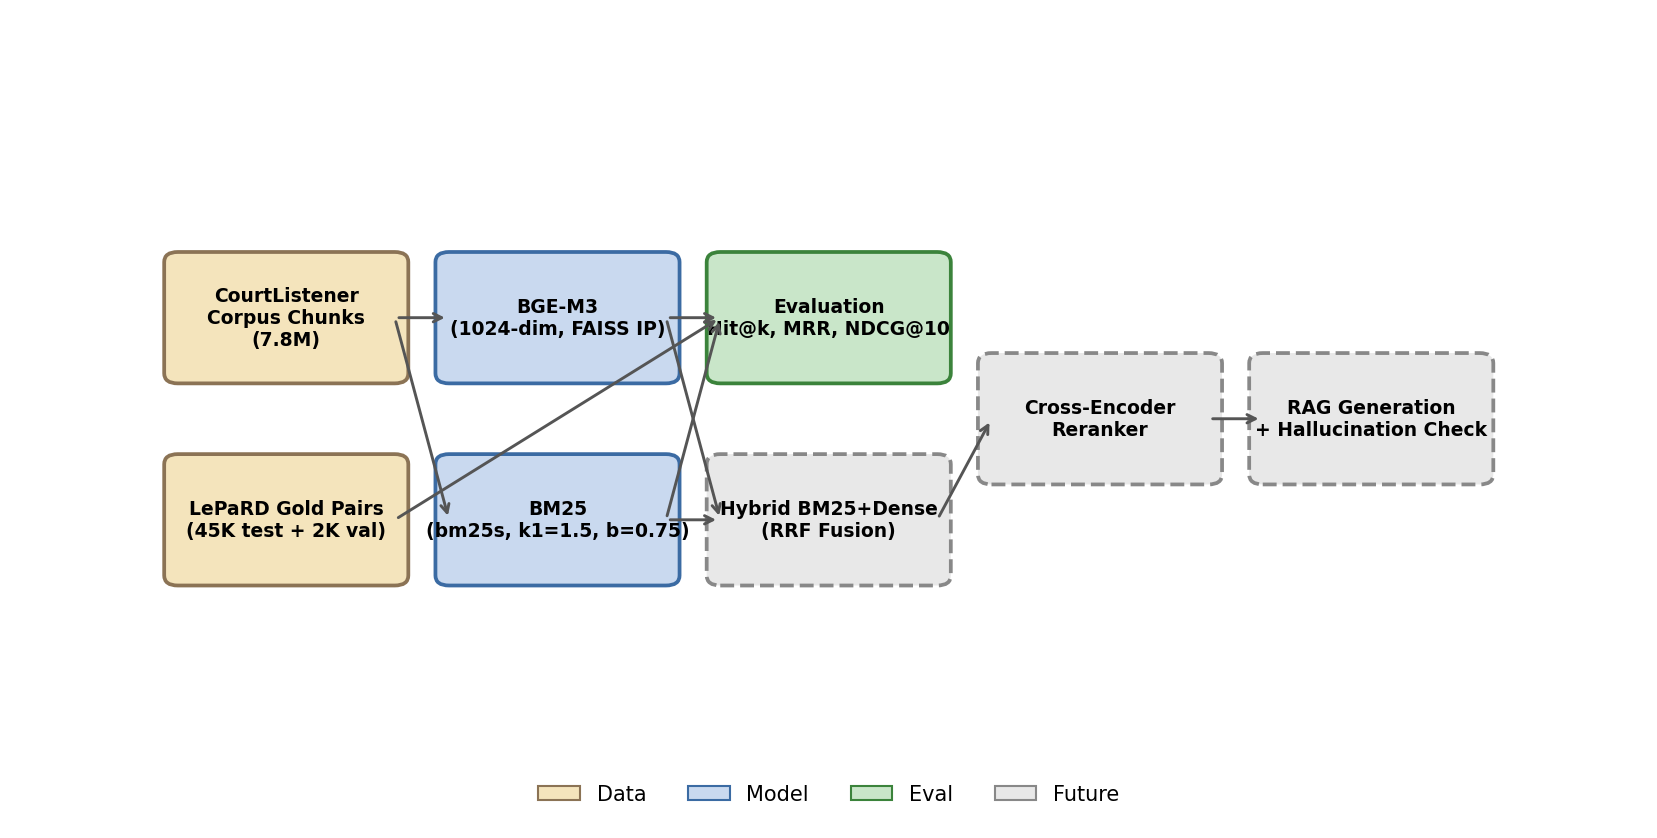
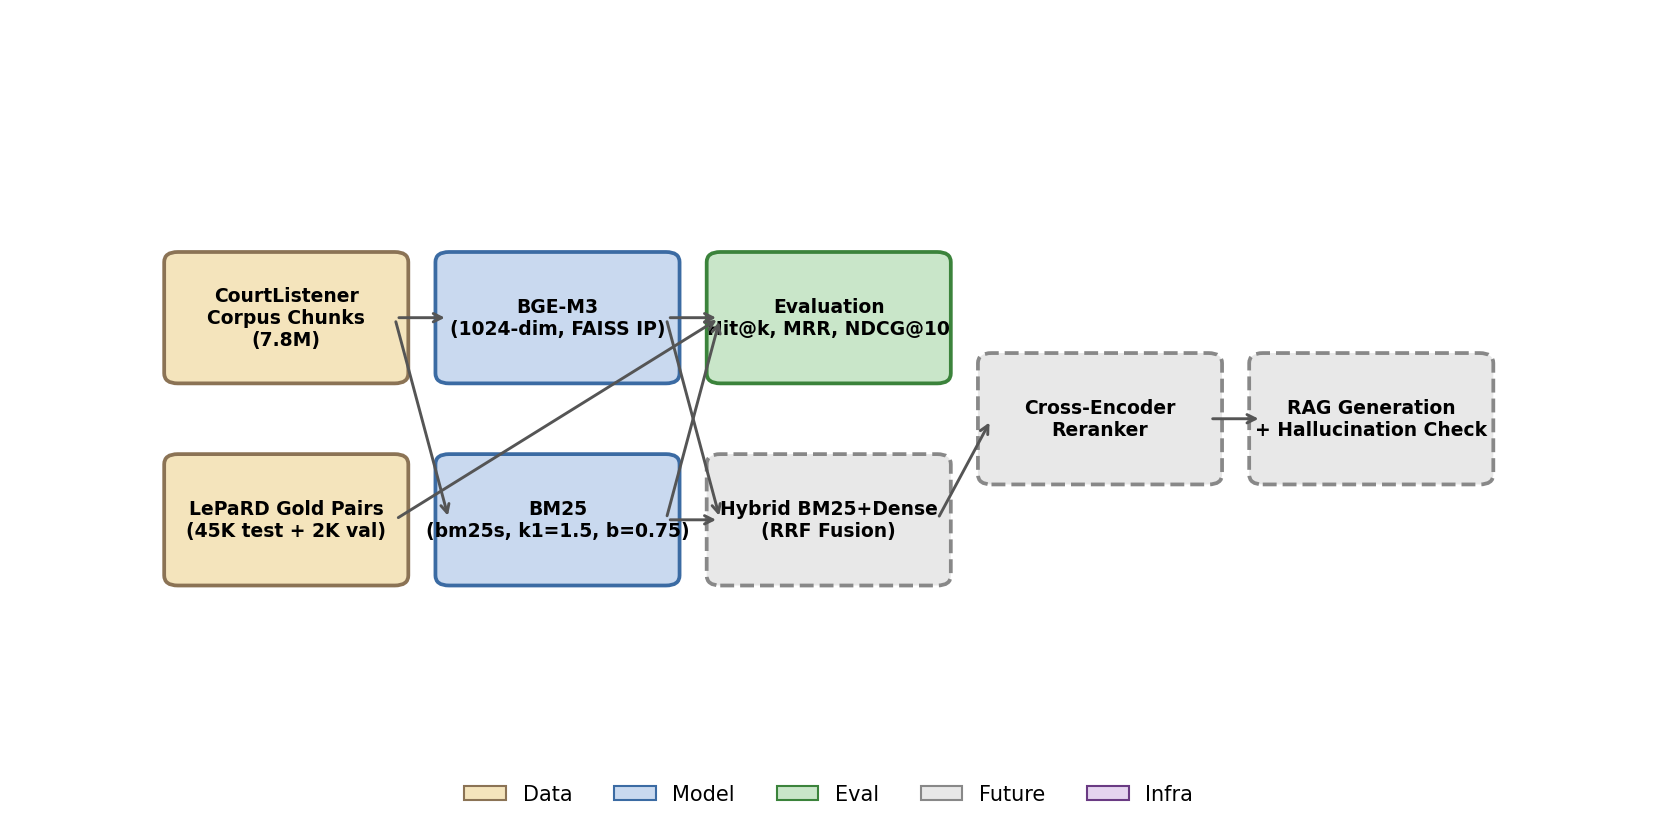
feat(ms3): MS3_INFRASTRUCTURE_SPEC + 6 tests (infra overlay: DVC, 4-way sharding, checkpoint); simplified DVC edge routing

Changed region(s): [[0.277, 0.9308, 0.7079, 0.9618]]

diff --git a/src/viz/pipeline_diagram.py b/src/viz/pipeline_diagram.py
@@ -1,14 +1,18 @@
 """Pipeline DAG renderer for Cell 16 MS3 deliverable.
 
 Dict-based DSL describes a retrieval pipeline as stages + edges. Pure
-matplotlib renders to PNG for inline notebook display. MS3_PIPELINE_SPEC
-is the canonical current-state + roadmap diagram.
+matplotlib renders to PNG for inline notebook display.
+
+Two canonical specs:
+    MS3_PIPELINE_SPEC       — conceptual research flow (corpus → retrievers → eval)
+    MS3_INFRASTRUCTURE_SPEC — detailed infra overlay (DVC, 4-way sharding, checkpoint)
 
 Stage kinds and their visual categorization:
     data    — prepared corpus / gold pairs (tan)
     model   — retrieval baseline (blue)
     eval    — metric computation (green)
     future  — MS4+ roadmap (gray, dashed border)
+    infra   — storage / reproducibility layer (purple, dashed border)
 """
 
 from __future__ import annotations
@@ -23,6 +27,7 @@ _KIND_STYLE: dict[str, dict[str, Any]] = {
     "model": {"facecolor": "#c9d9ef", "edgecolor": "#3b6ba3", "linestyle": "solid"},
     "eval": {"facecolor": "#c9e6c9", "edgecolor": "#3b833b", "linestyle": "solid"},
     "future": {"facecolor": "#e8e8e8", "edgecolor": "#888888", "linestyle": "dashed"},
+    "infra": {"facecolor": "#e5d4ef", "edgecolor": "#6a3b83", "linestyle": "dashed"},
 }
 
 
@@ -44,7 +49,6 @@ def build_pipeline_graph(spec: dict[str, Any]) -> dict[str, Any]:
             raise ValueError(f"duplicate stage id: {stage['id']!r}")
         nodes.append(dict(stage))
         node_ids.add(stage["id"])
-
     edges: list[tuple[str, str]] = []
     for src, dst in spec["edges"]:
         if src not in node_ids:
@@ -52,7 +56,6 @@ def build_pipeline_graph(spec: dict[str, Any]) -> dict[str, Any]:
         if dst not in node_ids:
             raise ValueError(f"edge references unknown node: {dst!r}")
         edges.append((src, dst))
-
     return {"nodes": nodes, "edges": edges}
 
 
@@ -65,7 +68,6 @@ def _layout_nodes(nodes: Sequence[dict[str, Any]], edges: Sequence[tuple[str, st
     incoming: dict[str, list[str]] = {n["id"]: [] for n in nodes}
     for src, dst in edges:
         incoming[dst].append(src)
-
     layers: dict[str, int] = {}
 
     def compute_layer(node_id: str, visiting: set[str]) -> int:
@@ -83,16 +85,13 @@ def _layout_nodes(nodes: Sequence[dict[str, Any]], edges: Sequence[tuple[str, st
 
     for n in nodes:
         compute_layer(n["id"], set())
-
-    # Group by layer, assign y within layer
     by_layer: dict[int, list[str]] = {}
     for nid, lyr in layers.items():
         by_layer.setdefault(lyr, []).append(nid)
-
     coords: dict[str, tuple[float, float]] = {}
     for lyr, ids in by_layer.items():
         for i, nid in enumerate(sorted(ids)):
-            y = -(i - (len(ids) - 1) / 2.0)  # center vertically
+            y = -(i - (len(ids) - 1) / 2.0)
             coords[nid] = (float(lyr), y)
     return coords
 
@@ -107,10 +106,13 @@ def render_pipeline(spec: dict[str, Any], out_path: Path) -> Path:
 
     graph = build_pipeline_graph(spec)
     coords = _layout_nodes(graph["nodes"], graph["edges"])
-
-    fig, ax = plt.subplots(figsize=(14, 7))
+    # scale figure size with graph complexity (infrastructure spec is wider/taller)
+    n_layers = int(max(c[0] for c in coords.values())) + 1
+    max_per_layer = max(sum(1 for c in coords.values() if int(c[0]) == lyr) for lyr in range(n_layers))
+    fig_w = max(14, 2.2 * n_layers)
+    fig_h = max(7, 1.3 * max_per_layer)
+    fig, ax = plt.subplots(figsize=(fig_w, fig_h))
     ax.set_axis_off()
-
     box_w, box_h = 0.8, 0.55
     for node in graph["nodes"]:
         x, y = coords[node["id"]]
@@ -134,8 +136,6 @@ def render_pipeline(spec: dict[str, Any], out_path: Path) -> Path:
             fontweight="bold",
             wrap=True,
         )
-
-    # Draw edges as arrows
     for src, dst in graph["edges"]:
         sx, sy = coords[src]
         dx, dy = coords[dst]
@@ -145,19 +145,15 @@ def render_pipeline(spec: dict[str, Any], out_path: Path) -> Path:
             xytext=(sx + box_w / 2, sy),
             arrowprops=dict(arrowstyle="->", color="#555555", lw=1.4),
         )
-
     xs = [c[0] for c in coords.values()]
     ys = [c[1] for c in coords.values()]
     ax.set_xlim(min(xs) - 1, max(xs) + 1)
     ax.set_ylim(min(ys) - 1.5, max(ys) + 1.5)
-
-    # Legend
     legend_handles = [
         mpatches.Patch(facecolor=s["facecolor"], edgecolor=s["edgecolor"], label=kind.capitalize())
         for kind, s in _KIND_STYLE.items()
     ]
-    ax.legend(handles=legend_handles, loc="lower center", ncol=4, frameon=False)
-
+    ax.legend(handles=legend_handles, loc="lower center", ncol=len(_KIND_STYLE), frameon=False)
     out_path = Path(out_path)
     out_path.parent.mkdir(parents=True, exist_ok=True)
     fig.savefig(out_path, dpi=150, bbox_inches="tight", facecolor="white")
@@ -165,21 +161,32 @@ def render_pipeline(spec: dict[str, Any], out_path: Path) -> Path:
     return out_path
 
 
-# ---------- canonical MS3 pipeline spec ----------
-
+# ---------- canonical MS3 conceptual pipeline spec ----------
 
 MS3_PIPELINE_SPEC: dict[str, Any] = {
     "stages": [
         # MS3 executed stages
-        {"id": "corpus", "label": "CourtListener\nCorpus Chunks\n(7.8M)", "kind": "data"},
-        {"id": "gold", "label": "LePaRD Gold Pairs\n(45K test + 2K val)", "kind": "data"},
+        {
+            "id": "corpus",
+            "label": "CourtListener\nCorpus Chunks\n(7.8M)",
+            "kind": "data",
+        },
+        {
+            "id": "gold",
+            "label": "LePaRD Gold Pairs\n(45K test + 2K val)",
+            "kind": "data",
+        },
         {"id": "bm25", "label": "BM25\n(bm25s, k1=1.5, b=0.75)", "kind": "model"},
         {"id": "bge_m3", "label": "BGE-M3\n(1024-dim, FAISS IP)", "kind": "model"},
         {"id": "eval", "label": "Evaluation\nHit@k, MRR, NDCG@10", "kind": "eval"},
         # MS4+ roadmap
         {"id": "hybrid", "label": "Hybrid BM25+Dense\n(RRF Fusion)", "kind": "future"},
         {"id": "reranker", "label": "Cross-Encoder\nReranker", "kind": "future"},
-        {"id": "rag", "label": "RAG Generation\n+ Hallucination Check", "kind": "future"},
+        {
+            "id": "rag",
+            "label": "RAG Generation\n+ Hallucination Check",
+            "kind": "future",
+        },
     ],
     "edges": [
         # MS3 flow
@@ -193,5 +200,96 @@ MS3_PIPELINE_SPEC: dict[str, Any] = {
         ("bge_m3", "hybrid"),
         ("hybrid", "reranker"),
         ("reranker", "rag"),
+    ],
+}
+
+
+# ---------- canonical MS3 infrastructure spec (detailed infra overlay) ----------
+#
+# Shows the reproducibility / distributed-compute layer that the conceptual
+# MS3_PIPELINE_SPEC abstracts away:
+#   - Raw bulk data provenance (cl_bulk from CourtListener)
+#   - Subsampling scope decision (1.47M opinion-level subsample for MS3)
+#   - 4-way BGE-M3 GPU sharding (matches Harvard ODD 4× L4 deployed reality)
+#   - Checkpoint-resume for multi-day encoding jobs
+#   - Merge stage that reconciles per-rank FAISS indices
+#   - DVC + S3 as the single source of truth for cross-team reproducibility
+#
+# Sharding cardinality is pinned at 4 to match deployed infrastructure. If the
+# cluster is upgraded (e.g., to 8× L4 or different GPUs), both this spec and
+# the TestInfrastructureSpec tests must be updated together.
+
+MS3_INFRASTRUCTURE_SPEC: dict[str, Any] = {
+    "stages": [
+        {
+            "id": "cl_bulk",
+            "label": "CourtListener\nBulk Dumps\n(58 GB)",
+            "kind": "data",
+        },
+        {
+            "id": "corpus_full",
+            "label": "Full Corpus\nChunks (7.8M)",
+            "kind": "data",
+        },
+        {
+            "id": "subsample",
+            "label": "Subsample\n(1-chunk/opinion)",
+            "kind": "model",
+        },
+        {
+            "id": "corpus_subsample",
+            "label": "Subsample Corpus\n(1.47M chunks)",
+            "kind": "data",
+        },
+        {
+            "id": "bge_shard_0",
+            "label": "BGE-M3 Shard 0\n(GPU rank 0)",
+            "kind": "model",
+        },
+        {
+            "id": "bge_shard_1",
+            "label": "BGE-M3 Shard 1\n(GPU rank 1)",
+            "kind": "model",
+        },
+        {
+            "id": "bge_shard_2",
+            "label": "BGE-M3 Shard 2\n(GPU rank 2)",
+            "kind": "model",
+        },
+        {
+            "id": "bge_shard_3",
+            "label": "BGE-M3 Shard 3\n(GPU rank 3)",
+            "kind": "model",
+        },
+        {
+            "id": "checkpoint",
+            "label": "Per-Rank\nFAISS Index\nCheckpoint",
+            "kind": "infra",
+        },
+        {
+            "id": "merge",
+            "label": "Cross-Shard\nMaxP Merge\n(top-100)",
+            "kind": "model",
+        },
+        {
+            "id": "dvc_s3",
+            "label": "DVC + S3 Remote\n(reproducibility\nsource of truth)",
+            "kind": "infra",
+        },
+    ],
+    "edges": [
+        ("cl_bulk", "corpus_full"),
+        ("corpus_full", "subsample"),
+        ("subsample", "corpus_subsample"),
+        ("corpus_subsample", "bge_shard_0"),
+        ("corpus_subsample", "bge_shard_1"),
+        ("corpus_subsample", "bge_shard_2"),
+        ("corpus_subsample", "bge_shard_3"),
+        ("bge_shard_0", "checkpoint"),
+        ("bge_shard_1", "checkpoint"),
+        ("bge_shard_2", "checkpoint"),
+        ("bge_shard_3", "checkpoint"),
+        ("checkpoint", "merge"),
+        ("merge", "dvc_s3"),
     ],
 }

diff --git a/tests/test_pipeline_diagram.py b/tests/test_pipeline_diagram.py
@@ -194,3 +194,67 @@ class TestMs3Topology:
     def test_gold_feeds_eval(self, viz_module: Any) -> None:
         edges = set(viz_module.MS3_PIPELINE_SPEC["edges"])
         assert ("gold", "eval") in edges
+
+
+@pytest.mark.contract
+class TestInfrastructureSpec:
+    """MS3_INFRASTRUCTURE_SPEC — detailed infra view: DVC, sharding, checkpointing."""
+
+    def test_infrastructure_spec_exists(self, viz_module: Any) -> None:
+        spec = getattr(viz_module, "MS3_INFRASTRUCTURE_SPEC", None)
+        assert spec is not None
+        assert "stages" in spec
+        assert "edges" in spec
+
+    def test_infrastructure_spec_covers_all_infra_concerns(self, viz_module: Any) -> None:
+        """Infrastructure spec must show DVC, sharding, checkpointing, subsampling."""
+        spec = viz_module.MS3_INFRASTRUCTURE_SPEC
+        ids = {s["id"] for s in spec["stages"]}
+        required = {
+            "cl_bulk",
+            "corpus_full",
+            "subsample",
+            "corpus_subsample",
+            "bge_shard_0",
+            "bge_shard_1",
+            "bge_shard_2",
+            "bge_shard_3",
+            "checkpoint",
+            "merge",
+            "dvc_s3",
+        }
+        missing = required - ids
+        assert not missing, f"missing infrastructure nodes: {missing}"
+
+    def test_infrastructure_edges_reference_existing_stages(self, viz_module: Any) -> None:
+        spec = viz_module.MS3_INFRASTRUCTURE_SPEC
+        ids = {s["id"] for s in spec["stages"]}
+        for src, dst in spec["edges"]:
+            assert src in ids, f"infra edge src unknown: {src}"
+            assert dst in ids, f"infra edge dst unknown: {dst}"
+
+    def test_infrastructure_has_dvc_tracking_node(self, viz_module: Any) -> None:
+        """DVC / S3 storage layer is the key reproducibility artifact."""
+        spec = viz_module.MS3_INFRASTRUCTURE_SPEC
+        dvc_nodes = [s for s in spec["stages"] if s["id"] == "dvc_s3"]
+        assert len(dvc_nodes) == 1
+        assert "S3" in dvc_nodes[0]["label"] or "DVC" in dvc_nodes[0]["label"]
+
+    def test_infrastructure_has_4_way_sharding(self, viz_module: Any) -> None:
+        """Four per-rank BGE-M3 shards must be represented with exact IDs bge_shard_{0..3}."""
+        spec = viz_module.MS3_INFRASTRUCTURE_SPEC
+        shard_ids = {s["id"] for s in spec["stages"] if s["id"].startswith("bge_shard_")}
+        assert shard_ids == {
+            "bge_shard_0",
+            "bge_shard_1",
+            "bge_shard_2",
+            "bge_shard_3",
+        }
+
+    def test_infrastructure_stage_ids_are_unique(self, viz_module: Any) -> None:
+        """Spec must not declare duplicate stage IDs (sets would silently collapse them)."""
+        spec = viz_module.MS3_INFRASTRUCTURE_SPEC
+        stage_ids = [s["id"] for s in spec["stages"]]
+        assert len(stage_ids) == len(set(stage_ids)), (
+            f"duplicate stage ids: {[x for x in stage_ids if stage_ids.count(x) > 1]}"
+        )
